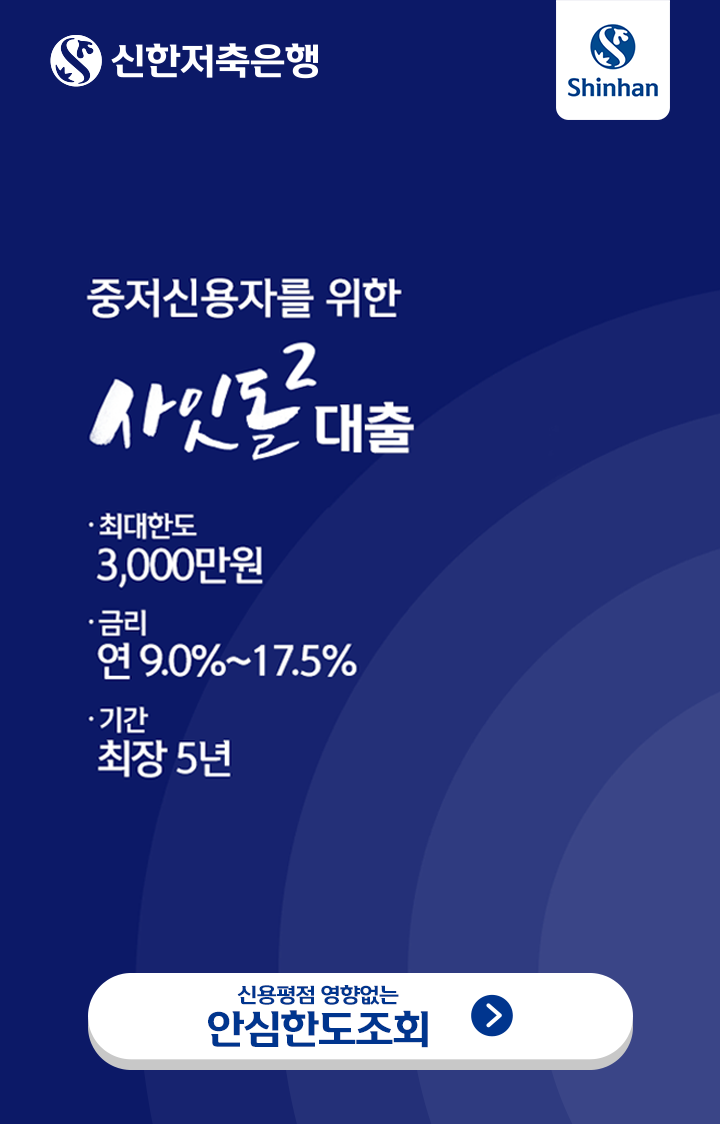
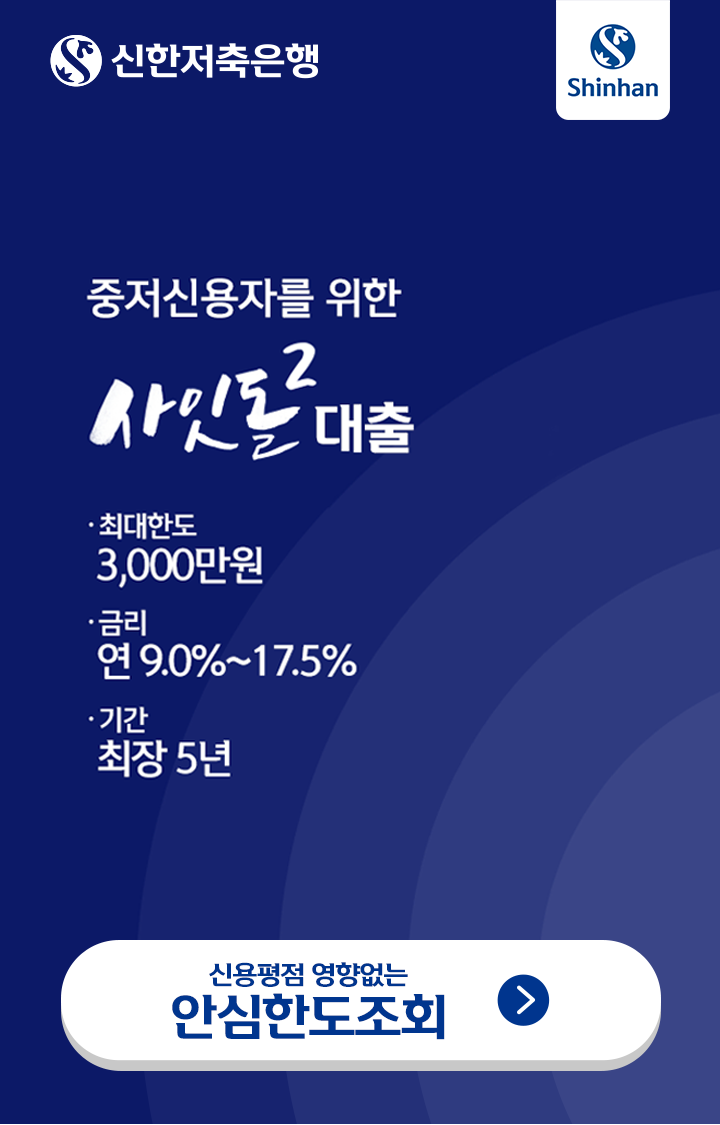
수정

Changed region(s): [[0.0611, 0.8089, 0.9167, 0.9644]]

diff --git a/shinhan_0412/css/style.css b/shinhan_0412/css/style.css
@@ -3,11 +3,11 @@ html { font-size: 9.5px; }
 
 .wrapper { margin: 0 auto; max-width: 768px; overflow: hidden; }
 
-.footer { padding: 6rem 0 22% 16rem; background-color: #222; }
+.footer { padding: 6rem 0 22% 16rem; background-color: #333; }
 
-.footer p { font-size: 2.4rem; line-height: 4rem; color: #fff; white-space: pre-line; letter-spacing: 0px; }
+.footer p { font-size: 2.4rem; line-height: 4rem; color: #fff; white-space: pre-line; letter-spacing: 0px; font-family: 'Nanum Gothic'; }
 
-.footer strong { display: inline-block; margin-bottom: 2.6rem; color: #fff; font-size: 3rem; line-height: 3.2rem; font-weight: bold; letter-spacing: 0px; }
+.footer strong { display: inline-block; margin-bottom: 2.6rem; color: #fff; font-size: 3rem; line-height: 3.2rem; font-weight: bold; letter-spacing: 0px; font-family: 'Nanum Gothic'; }
 
 .footer .copy { margin-top: 4.4rem; font-size: 2rem; line-height: 3.3rem; color: #9d9d9d; letter-spacing: 0px; }
 
@@ -21,7 +21,7 @@ html { font-size: 9.5px; }
 
 .section01 > img { width: 100%; }
 
-.section01 .link { position: absolute; left: 9%; bottom: 4.8%; width: 79%; height: 9%; display: block; border-radius: 50px; }
+.section01 .link { position: absolute; left: 9%; bottom: 4.8%; width: 83%; height: 12%; display: block; border-radius: 50px; }
 
 .swiper-container .swiper-button-next { position: absolute; left: auto; right: 2.6rem; top: 20%; width: 2.4rem; height: 4.2rem; background: url(../img/btn_next.png) no-repeat center/100%; }
 
@@ -75,7 +75,7 @@ html { font-size: 9.5px; }
 
 .product-list .product-item .tit { margin-bottom: 5.8rem; text-align: center; font-size: 5rem; color: #0084d4; line-height: 5.2rem; font-family: "OneShinhanBold"; }
 
-.notice-wrap { padding: 5.6rem 5rem 7rem 5rem; background-color: #eaeaea; }
+.notice-wrap { padding: 5.6rem 5rem 7rem 5rem; background-color: #fff; }
 
 .notice-wrap .tit { display: block; width: 100%; margin-bottom: 2.2rem; font-size: 3.2rem; line-height: 4rem; letter-spacing: -1.5px; color: #000; font-weight: bold; font-family: 'Nanum Gothic'; }
 

diff --git a/shinhan_0412/index.html b/shinhan_0412/index.html
@@ -436,12 +436,21 @@
     });
     $(document).ready(function(){
         const urlQueryNo = new URLSearchParams(location.search).get('no');
+        let num = 0;
+        if(urlQueryNo == 0 || urlQueryNo == 1 || urlQueryNo == 7) num = 0;
+        if(urlQueryNo == 2) num = 1;
+        if(urlQueryNo == 3) num = 3;
+        if(urlQueryNo == 4) num = 2;
+        if(urlQueryNo == 5) num = 4;
+        if(urlQueryNo == 6) num = 5;
+        console.log(num ,'nu')
         $('.btn-wrap').find('.fix-btn').removeClass('on')
         $('.btn-wrap').find('.fix-btn').eq(urlQueryNo).addClass('on')
         var tset1 = new Swiper('.product-container', {
-        navigation: {
-            nextEl: '.swiper-button-next',
-            prevEl: '.swiper-button-prev',
+            initialSlide:Number(num), //시작위치값
+            navigation: {
+                nextEl: '.swiper-button-next',
+                prevEl: '.swiper-button-prev',
         },
         pagination: {
             el: '.swiper-pagination'
@@ -450,10 +459,6 @@
         var visualSwiper = new Swiper('.visual-list', {
             navigation:false,
             initialSlide:Number(urlQueryNo), //시작위치값
-            autoplay: {
-                delay: 5000,
-                disableOnInteraction: true
-            },
             loop: true
         });
         visualSwiper.on('transitionEnd', function() { 

diff --git a/shinhan_0412/css/style.scss b/shinhan_0412/css/style.scss
@@ -12,13 +12,14 @@ html {
 }
 .footer {
     padding:6rem 0 22% 16rem;
-    background-color: #222;
+    background-color: #333;
     p {
         font-size:2.4rem;
         line-height: 4rem;
         color:#fff;
         white-space: pre-line;
         letter-spacing: 0px;
+        font-family: 'Nanum Gothic';
     }
     strong{
         display:inline-block;
@@ -28,6 +29,7 @@ html {
         line-height: 3.2rem;
         font-weight: bold;
         letter-spacing: 0px;
+        font-family: 'Nanum Gothic';
     }
     .copy {
         margin-top:4.4rem;
@@ -69,8 +71,8 @@ html {
         position: absolute;
         left: 9%;
         bottom: 4.8%;
-        width: 79%;
-        height: 9%;
+        width: 83%;
+        height: 12%;
         display: block;
         border-radius: 50px;
     }
@@ -229,7 +231,7 @@ html {
 }
 .notice-wrap {
     padding:5.6rem 5rem 7rem 5rem;
-    background-color:#eaeaea;
+    background-color:#fff;
     .tit {
         display: block;
         width:100%;
